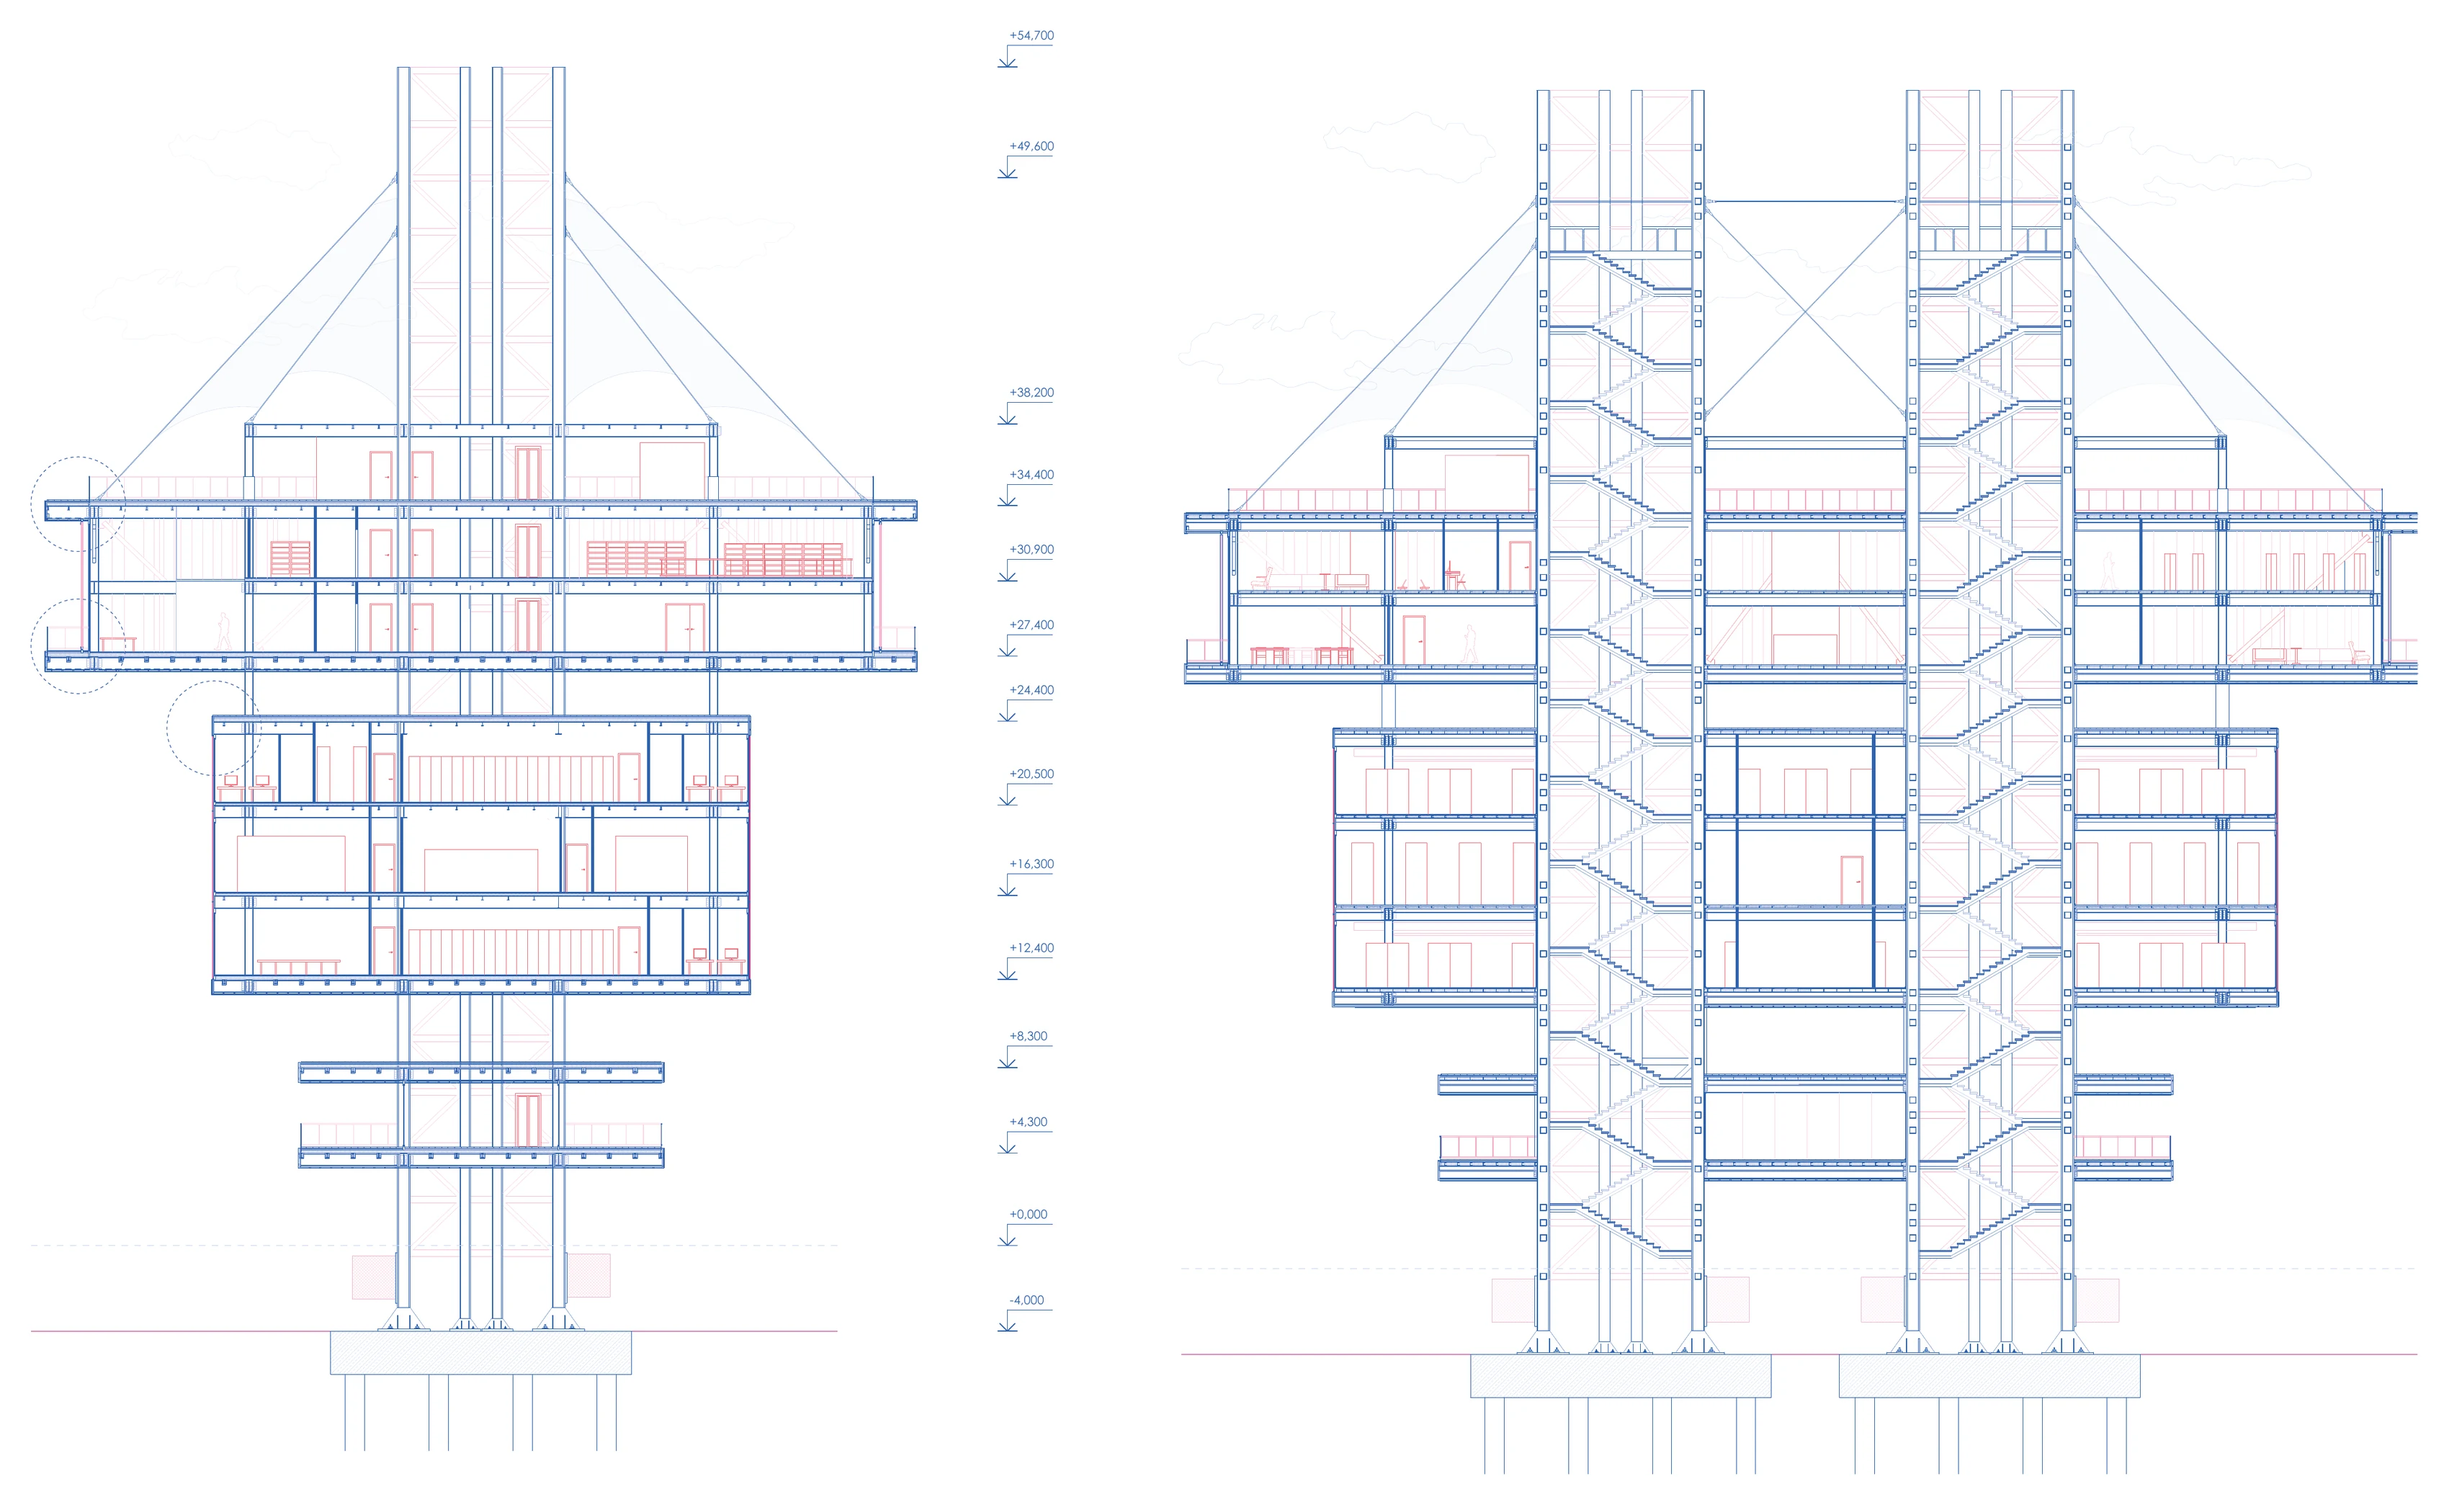
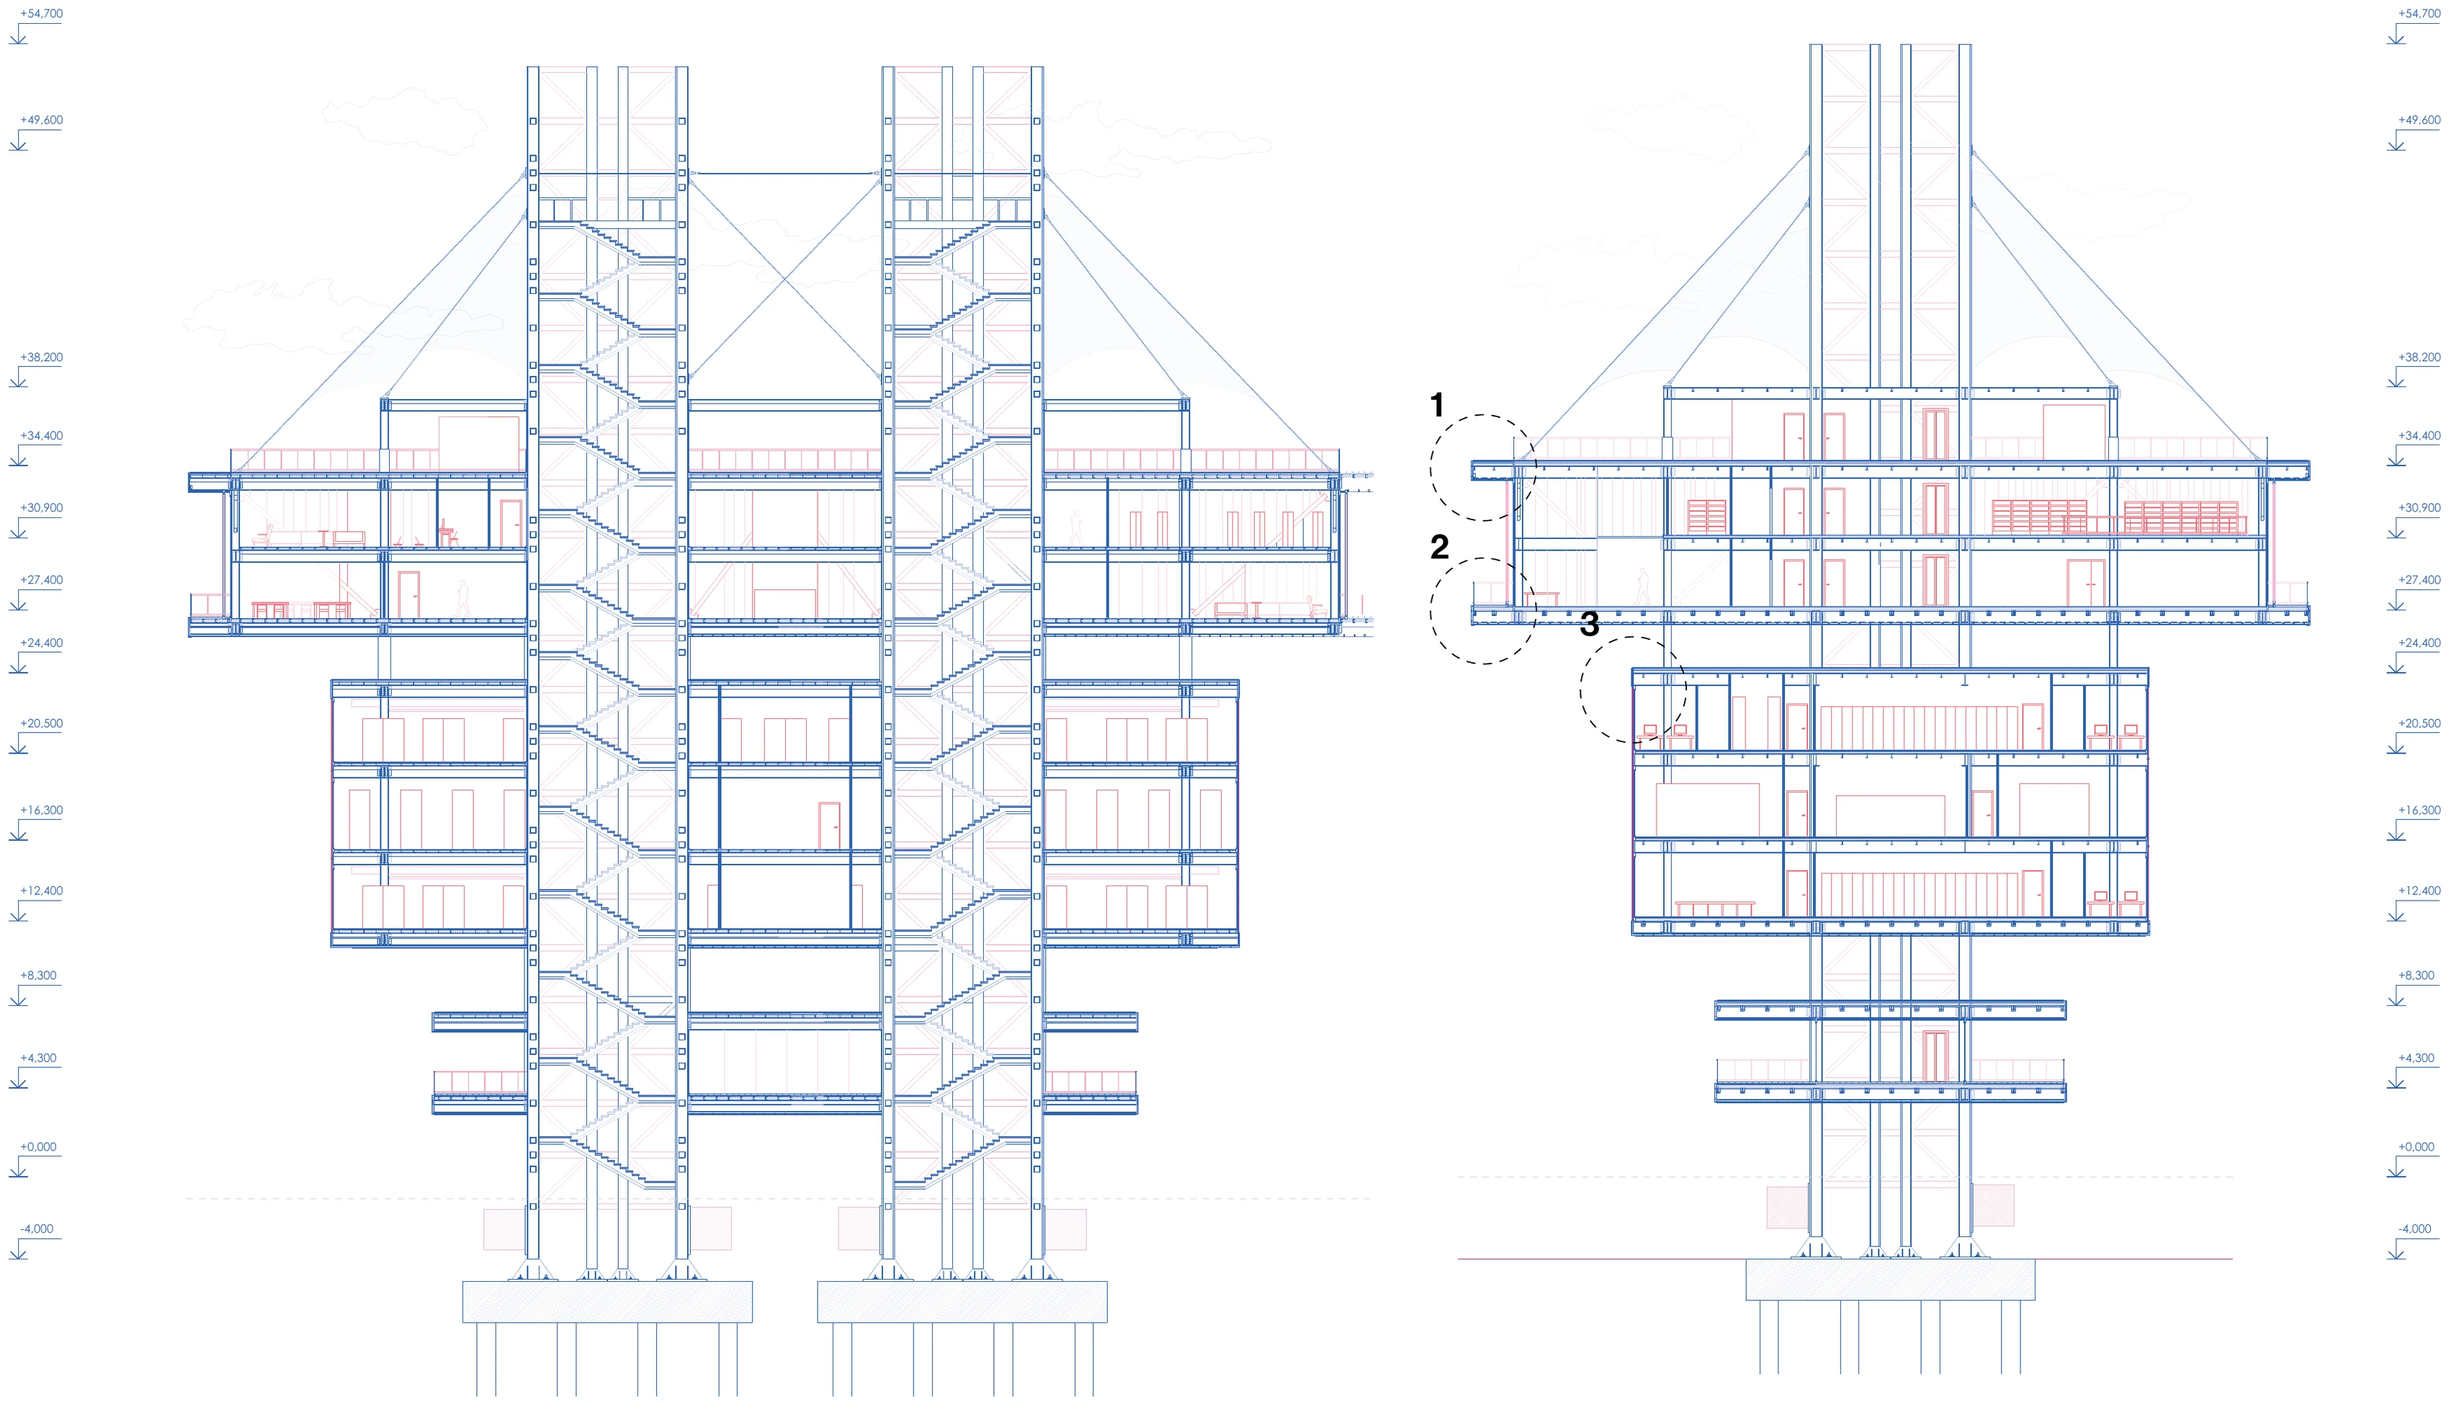
Add files via upload

Changed region(s): [[0.0, 0.0308, 0.9976, 0.9538], [0.9665, 0.2462, 0.9976, 0.2769], [0.0, 0.2462, 0.0312, 0.2769]]

diff --git a/projects.js b/projects.js
@@ -81,7 +81,7 @@ const PROJECTS = [
       {"src": "images/gone-with-the-cloud/plan-l2.webp", "caption": "Level 2, Data Center", "w": 1676, "h": 1558, "size": "half", "scale": 0.75, "fit": "start"},
       {"src": "images/gone-with-the-cloud/plan-l4.webp", "caption": "Level 4, Library", "w": 1705, "h": 1558, "size": "half", "scale": 0.75, "fit": "end"},
       {"src": "images/gone-with-the-cloud/plan-l5.webp", "caption": "Level 5, Library", "w": 1706, "h": 1559, "size": "half", "scale": 0.75, "fit": "start"},
-      {"src": "images/gone-with-the-cloud/sections.webp", "caption": "Sections, 1:200", "w": 3400, "h": 2089, "size": "wide"},
+      {"src": "images/gone-with-the-cloud/sections.webp", "caption": "Sections, 1:200", "w": 3400, "h": 1950, "size": "large", "align": "center"},
       {"src": "images/gone-with-the-cloud/details.webp", "caption": "Details, 1:20", "w": 3400, "h": 2778, "size": "wide"},
       {"src": "images/gone-with-the-cloud/perspective.webp", "caption": "Perspective", "w": 2400, "h": 3395, "size": "large", "align": "center"},
       {"src": "images/gone-with-the-cloud/interior-1.webp", "caption": "Interior perspective", "w": 2481, "h": 3023, "size": "half"},
